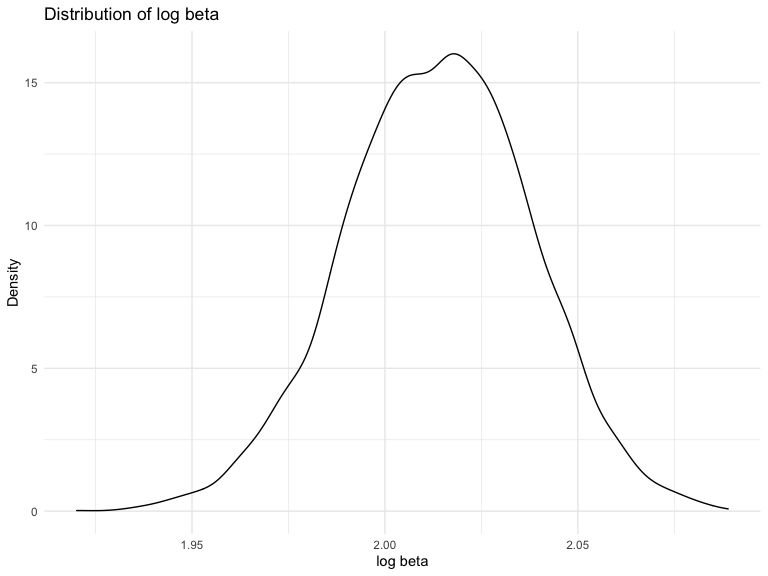
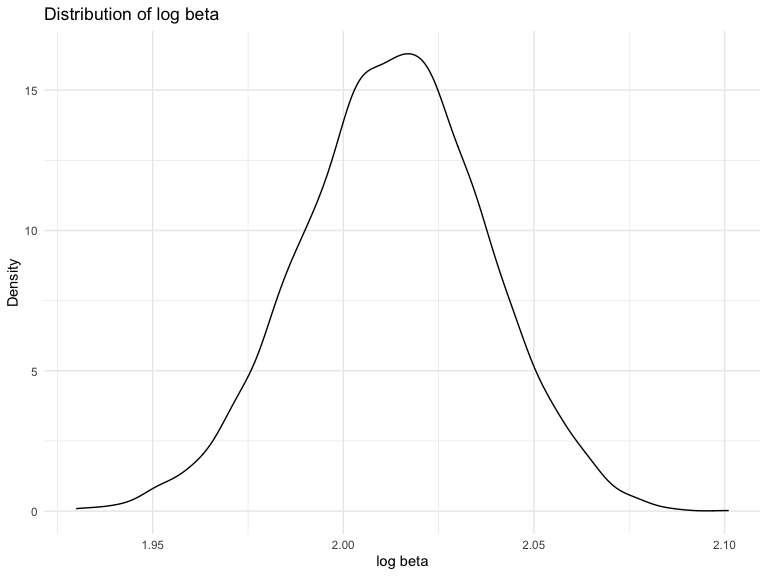
finish problem 3

diff --git a/hmk6.md b/hmk6.md
@@ -390,3 +390,19 @@ boot_straps %>%
 We could find that both log\_beta and r square are nearly normal
 distribution. And r square is quite large, which indicates that tim and
 tmax are relative to some extent.
+
+### confidence intercal for r square and log beta
+
+``` r
+boot_straps %>% 
+  summarize(
+    estimate = c("r square", "log beta"),
+    ci_lower = c(quantile(r.squared, 0.025), quantile(log_beta, 0.025)),
+    ci_upper = c(quantile(r.squared, 0.975), quantile(log_beta, 0.975))) %>% 
+  knitr::kable()
+```
+
+| estimate | ci\_lower | ci\_upper |
+| :------- | --------: | --------: |
+| r square | 0.8944297 | 0.9277775 |
+| log beta | 1.9642117 | 2.0599286 |
